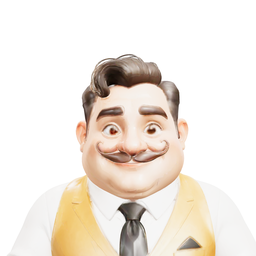
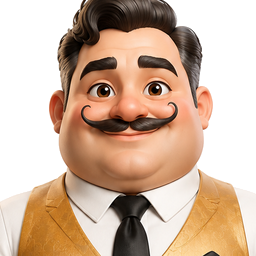
revert: 回退光照/道路/头像/海报改动，仅保留角色 GLB 模型
按用户决策：只保留 6 个角色的 GLB 模型应用（含站位分散修复），
恢复原始头像(face3_*.png v40)、原始海报(scene_poster.jpg)、
原始光照(exposure 1.06)与 128px 道路贴图。

保留项：
- assets/models/glb/*.glb 六角色 + GLTFLoader + glbchar 默认启用
- createToken 同格分散站位修复
- 版权剔除(gongyi_movie)与品牌改名(富贵人生)
- CDN 默认走本地副本的策略

diff --git a/src/view3d.js b/src/view3d.js
@@ -677,7 +677,7 @@ const V3D = (() => {
       renderer.shadowMap.autoUpdate = false;      // 静态场景：仅运动时刷新阴影
       renderer.outputEncoding = THREE.sRGBEncoding;
       renderer.toneMapping = THREE.ACESFilmicToneMapping;
-      renderer.toneMappingExposure = 1.26;
+      renderer.toneMappingExposure = 1.06;
       const el = renderer.domElement;
       el.id = 'gl-canvas';
       el.style.cssText = 'position:absolute;left:0;top:0;width:100%;height:100%;z-index:10;display:block;touch-action:none;';
@@ -733,8 +733,8 @@ const V3D = (() => {
     fxRoot = new THREE.Group(); scene.add(fxRoot);
 
     /* --- 灯光 --- */
-    scene.add(new THREE.HemisphereLight(0xf6f2e6, 0x1a2a22, 0.72));
-    scene.add(new THREE.AmbientLight(0xfff6e8, 0.30));
+    scene.add(new THREE.HemisphereLight(0xf2f7ea, 0x0d211a, 0.52));
+    scene.add(new THREE.AmbientLight(0xffffff, 0.2));
     const sun = new THREE.DirectionalLight(0xfff1d6, 1.12);
     sun.position.set(26, 44, 18);
     const shadowSize = qualityState.shadow > 0 ? qualityState.shadow : 2048;   // 分档：high 2048 / mobile 1024
@@ -946,13 +946,13 @@ const V3D = (() => {
 
     /* 沥青路面（暖深灰 #4a4a4f 系 + 噪点纹理，粗糙 0.95） */
     const aCv = document.createElement('canvas');
-    aCv.width = aCv.height = 512;                 /* 128→512：沥青颗粒在斜视/近景下不再糊成一片 */
+    aCv.width = aCv.height = 128;
     const ac = aCv.getContext('2d');
-    ac.fillStyle = '#4a4a4f'; ac.fillRect(0, 0, 512, 512);
-    for (let k = 0; k < 13600; k++) {             /* 密度同比放大（850×16） */
+    ac.fillStyle = '#4a4a4f'; ac.fillRect(0, 0, 128, 128);
+    for (let k = 0; k < 850; k++) {
       const v = 56 + Math.floor(Math.random() * 30);
       ac.fillStyle = 'rgba(' + v + ',' + v + ',' + (v + 4) + ',' + (0.10 + Math.random() * 0.22).toFixed(2) + ')';
-      ac.fillRect(Math.random() * 512, Math.random() * 512, 3, 3);
+      ac.fillRect(Math.random() * 128, Math.random() * 128, 1.5, 1.5);
     }
     const aTex = canvasTexture(aCv);
     aTex.wrapS = aTex.wrapT = THREE.RepeatWrapping;
@@ -964,14 +964,14 @@ const V3D = (() => {
 
     /* 两侧米色石材路缘（窄条 + 分段缝贴图：每 2.4 单位一道缝） */
     const cCv = document.createElement('canvas');
-    cCv.width = cCv.height = 512;                 /* 128→512：石材接缝与颗粒更清晰 */
+    cCv.width = cCv.height = 128;
     const cc = cCv.getContext('2d');
-    cc.fillStyle = '#d9cfb4'; cc.fillRect(0, 0, 512, 512);
-    cc.fillStyle = 'rgba(0,0,0,.18)'; cc.fillRect(0, 0, 16, 512);
-    cc.fillStyle = 'rgba(255,255,255,.30)'; cc.fillRect(16, 0, 12, 512);
-    for (let k = 0; k < 3840; k++) {              /* 密度同比放大（240×16） */
+    cc.fillStyle = '#d9cfb4'; cc.fillRect(0, 0, 128, 128);
+    cc.fillStyle = 'rgba(0,0,0,.18)'; cc.fillRect(0, 0, 4, 128);
+    cc.fillStyle = 'rgba(255,255,255,.30)'; cc.fillRect(4, 0, 3, 128);
+    for (let k = 0; k < 240; k++) {
       cc.fillStyle = 'rgba(120,105,78,' + (0.06 + Math.random() * 0.12).toFixed(2) + ')';
-      cc.fillRect(Math.random() * 512, Math.random() * 512, 4, 4);
+      cc.fillRect(Math.random() * 128, Math.random() * 128, 2, 2);
     }
     const cTex = canvasTexture(cCv);
     cTex.wrapS = cTex.wrapT = THREE.RepeatWrapping;

diff --git a/index.html b/index.html
@@ -384,7 +384,7 @@ window.hideBoardBoot = function () { var b = document.getElementById("board-boot
 <script type="text/plain" data-src="src/uix.js?v=57" data-size="135982"></script>
 <script type="text/plain" data-src="src/supa-rtc.js?v=55" data-size="6536"></script>
 <script type="text/plain" data-src="src/net.js?v=58" data-size="24926"></script>
-<script type="text/plain" data-src="src/view3d.js?v=63" data-size="153482"></script>
+<script type="text/plain" data-src="src/view3d.js?v=64" data-size="153229"></script>
 <script type="text/plain" data-src="src/buildings3d.js?v=46" data-size="95501"></script>
 <script type="text/plain" data-btheme="classic" data-src="assets/models/props3d/prop_6.js?v=46" data-size="62155"></script>
 <script type="text/plain" data-btheme="classic" data-src="assets/models/props3d/prop_3.js?v=46" data-size="51095"></script>
@@ -457,13 +457,13 @@ window.hideBoardBoot = function () { var b = document.getElementById("board-boot
 <script type="text/plain" data-src="assets/models/propFactories.js?v=46" data-size="12077"></script>
 <script type="text/plain" data-src="src/main.js?v=57" data-size="40893"></script>
 <script type="text/plain" data-src="src/psa.js?v=58" data-size="36674"></script>
-<script type="text/plain" data-kind="img" data-src="assets/img/scene_poster.jpg" data-size="139486"></script>
-<script type="text/plain" data-kind="img" data-src="assets/img/face3_boss.png?v=41" data-size="43508"></script>
-<script type="text/plain" data-kind="img" data-src="assets/img/face3_doudou.png?v=41" data-size="37547"></script>
-<script type="text/plain" data-kind="img" data-src="assets/img/face3_qian.png?v=41" data-size="39985"></script>
-<script type="text/plain" data-kind="img" data-src="assets/img/face3_ren.png?v=41" data-size="55622"></script>
-<script type="text/plain" data-kind="img" data-src="assets/img/face3_tang.png?v=41" data-size="62547"></script>
-<script type="text/plain" data-kind="img" data-src="assets/img/face3_tu.png?v=41" data-size="50960"></script>
+<script type="text/plain" data-kind="img" data-src="assets/img/scene_poster.jpg" data-size="472131"></script>
+<script type="text/plain" data-kind="img" data-src="assets/img/face3_boss.png?v=40" data-size="106990"></script>
+<script type="text/plain" data-kind="img" data-src="assets/img/face3_doudou.png?v=40" data-size="99992"></script>
+<script type="text/plain" data-kind="img" data-src="assets/img/face3_qian.png?v=40" data-size="92505"></script>
+<script type="text/plain" data-kind="img" data-src="assets/img/face3_ren.png?v=40" data-size="98098"></script>
+<script type="text/plain" data-kind="img" data-src="assets/img/face3_tang.png?v=40" data-size="117552"></script>
+<script type="text/plain" data-kind="img" data-src="assets/img/face3_tu.png?v=40" data-size="126252"></script>
 <script type="text/plain" data-kind="img" data-src="assets/img/full3_boss.png?v=40" data-size="424407"></script>
 <script type="text/plain" data-kind="img" data-src="assets/img/full3_doudou.png?v=40" data-size="390875"></script>
 <script type="text/plain" data-kind="img" data-src="assets/img/full3_qian.png?v=40" data-size="229319"></script>

diff --git a/src/data.js b/src/data.js
@@ -51,27 +51,27 @@ const JAIL_CASES = [
 
 const CHARACTERS = [
   { id:'boss',   name:'富老板',  emoji:'🤵', color:'#f0a818', dark:'#b97e00',
-    avatarImg:'assets/img/face3_boss.png?v=41', tokenImg:'assets/img/full3_boss.png?v=40',
+    avatarImg:'assets/img/face3_boss.png?v=40', tokenImg:'assets/img/full3_boss.png?v=40',
     poseHit:'assets/img/pose_boss_hit.png', poseCheer:'assets/img/pose_boss_cheer.png',
     title:'地产巨头', desc:'白手起家，出手阔绰，信奉“地产行则百业兴”。' },
   { id:'qian',   name:'钱掌柜',  emoji:'👩💼', color:'#b45cf2', dark:'#8a2fc9',
-    avatarImg:'assets/img/face3_qian.png?v=41', tokenImg:'assets/img/full3_qian.png?v=40',
+    avatarImg:'assets/img/face3_qian.png?v=40', tokenImg:'assets/img/full3_qian.png?v=40',
     poseHit:'assets/img/pose_qian_hit.png', poseCheer:'assets/img/pose_qian_cheer.png',
     title:'商界女强人', desc:'精打细算，账算得比谁都快，从不做亏本买卖。' },
   { id:'tang',   name:'糖糖',    emoji:'👧', color:'#ff5964', dark:'#d02f3a',
-    avatarImg:'assets/img/face3_tang.png?v=41', tokenImg:'assets/img/full3_tang.png?v=40',
+    avatarImg:'assets/img/face3_tang.png?v=40', tokenImg:'assets/img/full3_tang.png?v=40',
     poseHit:'assets/img/pose_tang_hit.png', poseCheer:'assets/img/pose_tang_cheer.png',
     title:'元气少女', desc:'运气爆棚，走到哪都有好事发生。' },
   { id:'tu',     name:'土老财',  emoji:'👴', color:'#2ecc71', dark:'#1d9e50',
-    avatarImg:'assets/img/face3_tu.png?v=41', tokenImg:'assets/img/full3_tu.png?v=40',
+    avatarImg:'assets/img/face3_tu.png?v=40', tokenImg:'assets/img/full3_tu.png?v=40',
     poseHit:'assets/img/pose_tu_hit.png', poseCheer:'assets/img/pose_tu_cheer.png',
     title:'囤地狂魔', desc:'穿背带裤的乡下地主，就爱一寸一寸囤地。' },
   { id:'ren',    name:'丧彪',    emoji:'🧟', color:'#3d7bff', dark:'#2456c9',
-    avatarImg:'assets/img/face3_ren.png?v=41', tokenImg:'assets/img/full3_ren.png?v=40',
+    avatarImg:'assets/img/face3_ren.png?v=40', tokenImg:'assets/img/full3_ren.png?v=40',
     poseHit:'assets/img/pose_ren_hit.png', poseCheer:'assets/img/pose_ren_cheer.png',
     title:'神秘怪人', desc:'来无影去无踪，走路慢吞吞，但出手从不缺席。' },
   { id:'doudou', name:'豆豆',    emoji:'🤖', color:'#22d3d3', dark:'#0e9e9e',
-    avatarImg:'assets/img/face3_doudou.png?v=41', tokenImg:'assets/img/full3_doudou.png?v=40',
+    avatarImg:'assets/img/face3_doudou.png?v=40', tokenImg:'assets/img/full3_doudou.png?v=40',
     poseHit:'assets/img/pose_doudou_hit.png', poseCheer:'assets/img/pose_doudou_cheer.png',
     title:'AI 投资人', desc:'算力惊人的机器人，从不情绪化，也从不迟到。' },
 ];
